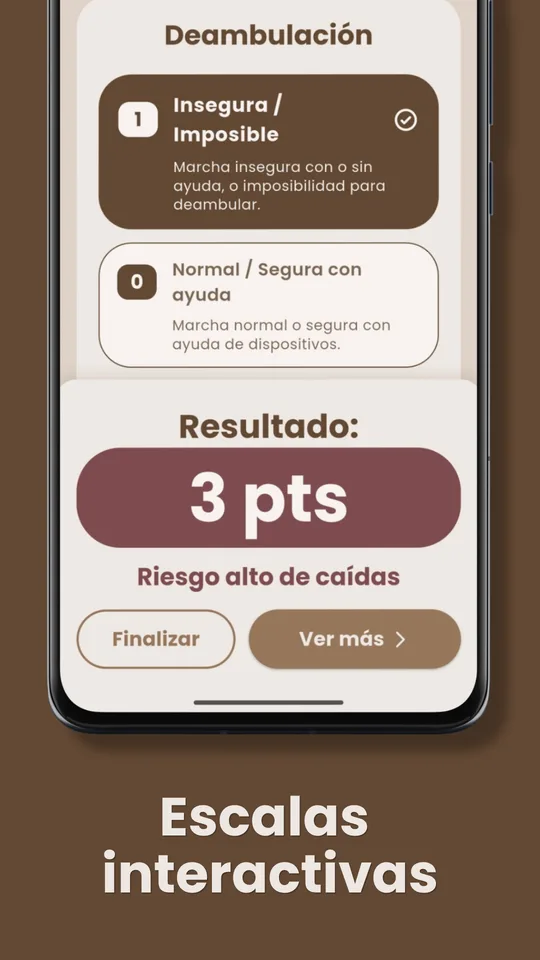
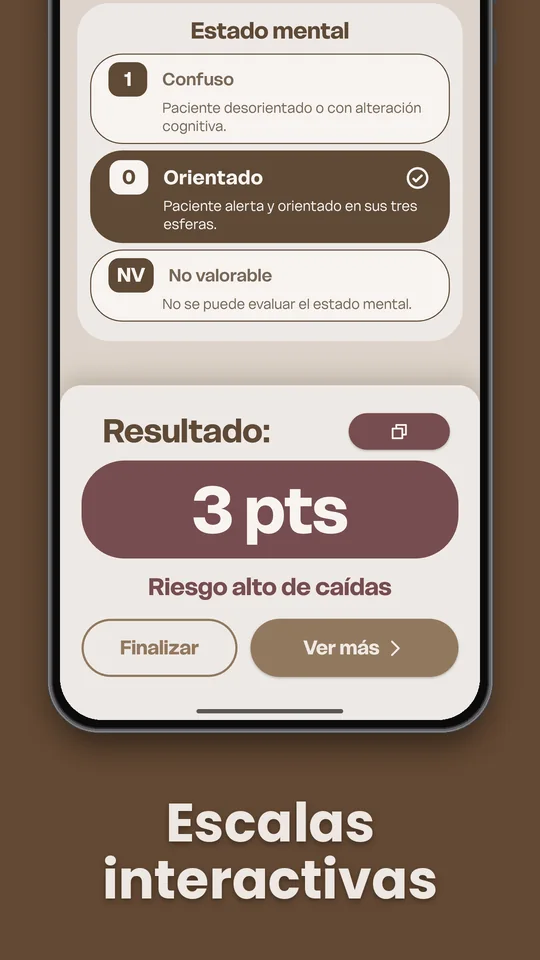
Landing: versión 2.0.0, Procedimientos, Dilución, conteos nuevos, ¿Es seguro? y capturas sin NursClips
Claude-Session: https://claude.ai/code/session_01FsfKZ1knpTXjysVmniKvEW

Changed region(s): [[0.0889, 0.0, 0.9185, 0.7812], [0.1778, 0.8125, 0.8296, 0.9375]]

diff --git a/index.html b/index.html
@@ -13,14 +13,14 @@
   <meta charset="UTF-8">
   <meta name="viewport" content="width=device-width, initial-scale=1">
   <title>Nurska | Referencia clínica de enfermería</title>
-  <meta name="description" content="Escalas, fármacos, calculadoras y fichas de consulta rápida para enfermería. Funciona sin señal, sin cuenta y sin anuncios. Gratis para Android.">
+  <meta name="description" content="Escalas, fármacos, dilución, calculadoras, procedimientos y fichas de consulta rápida para enfermería. Funciona sin señal, sin cuenta y sin anuncios. Gratis para Android.">
   <meta name="theme-color" content="#624933">
 
   <!-- Vista previa al compartir el enlace (WhatsApp, Facebook, etc.) -->
   <meta property="og:type" content="website">
   <meta property="og:locale" content="es_MX">
   <meta property="og:title" content="Nurska | Referencia clínica de enfermería">
-  <meta property="og:description" content="Escalas, fármacos y calculadoras para consultar en pleno turno. Funciona sin señal. Gratis para Android.">
+  <meta property="og:description" content="Escalas, fármacos, dilución, calculadoras y procedimientos para consultar en pleno turno. Funciona sin señal. Gratis para Android.">
   <meta property="og:url" content="https://farkasokovo.github.io/nurska-app/">
   <meta property="og:image" content="https://farkasokovo.github.io/nurska-app/assets/nurska_icon.png">
 
@@ -292,6 +292,24 @@
   }
   .nota i { font-size: 1.2rem; color: var(--tinta-2); flex: none; margin-top: 2px; }
 
+
+  /* ¿Es seguro? */
+  .preguntas { display: grid; gap: 12px; max-width: 46rem; }
+  .preguntas details {
+    background: var(--papel);
+    border-radius: var(--r-tarjeta);
+    box-shadow: var(--sombra);
+    padding: 16px 20px;
+  }
+  .preguntas summary { cursor: pointer; font-weight: 600; color: var(--tinta-2); list-style-position: outside; }
+  .preguntas p { margin-top: 8px; font-size: .92rem; color: var(--tinta-3); line-height: 1.55; }
+  .preguntas a { color: var(--tinta-2); font-weight: 600; }
+  .huellas { margin: 12px 0 0; font-size: .85rem; }
+  .huellas div { padding-block: 8px; border-top: 1px solid var(--linea); }
+  .huellas dt { font-weight: 600; color: var(--tinta-2); }
+  .huellas dd { margin: 2px 0 0; color: var(--tinta-3); overflow-wrap: anywhere; }
+  .huellas dd.hash { font-family: ui-monospace, monospace; }
+
   /* Instalación: sí es una secuencia, por eso va numerada */
   .pasos { list-style: none; padding: 0; margin: 0; display: grid; grid-template-columns: repeat(auto-fit, minmax(15rem, 1fr)); gap: 18px; counter-reset: paso; }
   .pasos li {
@@ -376,7 +394,7 @@
       </div>
 
       <h1>Consulta rápida para tu turno.</h1>
-      <p class="lede">Nurska es una app gratuita de referencia clínica para enfermería: fármacos, escalas, calculadoras, normas oficiales y fichas esenciales, con fuente en cada dato y sin necesidad de internet. Es el proyecto de un estudiante de enfermería.</p>
+      <p class="lede">Nurska es una app gratuita de referencia clínica para enfermería: fármacos y su dilución, escalas, calculadoras, procedimientos, normas oficiales y fichas esenciales, con fuente en cada dato y sin necesidad de internet. Es el proyecto de un estudiante de enfermería.</p>
 
       <ul class="promesas">
         <li><i class="ph ph-wifi-slash" aria-hidden="true"></i>Funciona sin señal</li>
@@ -392,7 +410,7 @@
       <a class="btn btn-borde" href="#instalar"><i class="ph ph-question" aria-hidden="true"></i>¿Cómo instalar?</a>
       </div>
       <!-- Valor de respaldo: el script del final lo actualiza con el último Release -->
-      <p class="descarga-nota" id="nota-version">Versión 1.5.0 para Android</p>
+      <p class="descarga-nota" id="nota-version">Versión 2.0.0 para Android</p>
     </div>
 
     <div class="telefono">
@@ -419,7 +437,7 @@
             <span class="cuenta">17</span>
           </div>
           <dl>
-            <div><dt>Signos vitales</dt><dd>Adulto, con presión arterial según la NOM-030 y valores de laboratorio; pediátricos, interpretados por edad</dd></div>
+            <div><dt>Signos vitales</dt><dd>Del adulto, con tabla de presión arterial según la NOM-030; pediátricos, interpretados por edad</dd></div>
             <div><dt>Consciencia y sedación</dt><dd>Glasgow, Ramsay, RASS</dd></div>
             <div><dt>Valoración de riesgos</dt><dd>Braden, Downton, Maddox</dd></div>
             <div><dt>Emergencias y triaje</dt><dd>MEWS, qSOFA, índice de shock</dd></div>
@@ -432,13 +450,13 @@
           <div class="modulo-barra">
             <i class="ph-fill ph-syringe" aria-hidden="true"></i>
             <h3>Farmacología</h3>
-            <span class="cuenta">52 fármacos</span>
+            <span class="cuenta">55 fármacos</span>
           </div>
           <dl>
-            <div><dt>Grupos</dt><dd>Analgésicos, anestésicos, antiarrítmicos, antibióticos, anticoagulantes, antidepresivos, antieméticos, antihipertensivos, antiinflamatorios, broncodilatadores, diuréticos, electrolitos, hemostáticos, insulinas, opioides, protectores gástricos, vasodilatadores y vasopresores</dd></div>
-            <div><dt>Cada ficha</dt><dd>Indicaciones, contraindicaciones, vía de administración, farmacocinética, farmacodinamia, efectos adversos, interacciones, administración y precauciones</dd></div>
+            <div><dt>Grupos</dt><dd>Analgésicos, anestésicos, antiarrítmicos, antibióticos, anticoagulantes, antidepresivos, antidiabéticos orales, antieméticos, antihipertensivos, antiinflamatorios, broncodilatadores, diuréticos, electrolitos, hemostáticos, insulinas, opioides, protectores gástricos, vasodilatadores y vasopresores</dd></div>
+            <div><dt>Cada ficha</dt><dd>Indicaciones, contraindicaciones, vía de administración, farmacocinética, farmacodinamia, efectos adversos, interacciones, observaciones de administración, embarazo y lactancia</dd></div>
             <div><dt>Alto riesgo</dt><dd>Marca visible en los fármacos que la requieren</dd></div>
-            <div><dt>NursClips</dt><dd>Pestaña con lo esencial del video en los fármacos que tienen uno</dd></div>
+            <div><dt>Dilución</dt><dd>Diluyente, volumen y tiempo de administración de 39 fármacos</dd></div>
           </dl>
         </article>
 
@@ -446,14 +464,30 @@
           <div class="modulo-barra">
             <i class="ph-fill ph-calculator" aria-hidden="true"></i>
             <h3>Calculadoras</h3>
-            <span class="cuenta">5</span>
+            <span class="cuenta">9</span>
           </div>
           <dl>
             <div><dt>Dosis</dt><dd>Regla de tres, con conversor entre mcg, mg y g</dd></div>
-            <div><dt>Goteo intravenoso</dt><dd>En horas o minutos</dd></div>
+            <div><dt>Goteo e infusión</dt><dd>Gotas por minuto, en horas o minutos, e infusión continua en mL/h</dd></div>
             <div><dt>Presión arterial media</dt><dd>PAM a partir de sistólica y diastólica</dd></div>
             <div><dt>Soluciones glucosadas</dt><dd>Por dilución o mezcla de dos soluciones</dd></div>
-            <div><dt>Pérdidas insensibles</dt><dd>Para el balance de líquidos</dd></div>
+            <div><dt>Líquidos</dt><dd>Pérdidas insensibles, balance de líquidos y diuresis horaria</dd></div>
+            <div><dt>Cálculo de horario</dt><dd>Hora de la próxima dosis en formato de 24 horas</dd></div>
+          </dl>
+        </article>
+
+        <article class="modulo">
+          <div class="modulo-barra">
+            <i class="ph-fill ph-list-checks" aria-hidden="true"></i>
+            <h3>Procedimientos</h3>
+            <span class="cuenta">Nuevo</span>
+          </div>
+          <dl>
+            <div><dt>Antes de cada procedimiento</dt><dd>Lo que se repite siempre, reunido en una sola guía</dd></div>
+            <div><dt>Accesos vasculares</dt><dd>Canalización venosa periférica</dd></div>
+            <div><dt>Vía aérea</dt><dd>Aspiración de secreciones con sistema abierto y con sistema cerrado</dd></div>
+            <div><dt>Sondas</dt><dd>Instalación de sonda vesical (Foley)</dd></div>
+            <div><dt>Cada ficha</dt><dd>Material para marcar, pasos en tarjetas o en lista y avance guardado</dd></div>
           </dl>
         </article>
 
@@ -461,13 +495,13 @@
           <div class="modulo-barra">
             <i class="ph-fill ph-chalkboard-teacher" aria-hidden="true"></i>
             <h3>Esenciales</h3>
-            <span class="cuenta">16 fichas</span>
+            <span class="cuenta">24 fichas</span>
           </div>
           <dl>
-            <div><dt>Insumos</dt><dd>Orden de llenado de tubos, calibres de catéter periférico, soluciones intravenosas, catéter venoso central, catéter PICC</dd></div>
-            <div><dt>Paciente</dt><dd>Regiones abdominales, toma de presión arterial, fístula arteriovenosa</dd></div>
+            <div><dt>Insumos</dt><dd>Orden de llenado de tubos, calibres de catéter periférico, soluciones intravenosas, catéter venoso central, catéter PICC, hemocomponentes y transfusión segura</dd></div>
+            <div><dt>Paciente</dt><dd>Regiones abdominales, toma de presión arterial, fístula arteriovenosa, gasometría arterial, valores de laboratorio del adulto, reacciones extrapiramidales</dd></div>
             <div><dt>Equipo</dt><dd>Dispositivos de oxígeno de bajo y alto flujo, drenajes, modos ventilatorios básicos, ventiladores mecánicos</dd></div>
-            <div><dt>Códigos</dt><dd>Código azul, Acciones Esenciales para la Seguridad del Paciente, precauciones de aislamiento, hora dorada en neutropenia febril</dd></div>
+            <div><dt>Códigos</dt><dd>Código azul, ritmos de paro cardiaco, interpretación básica del electrocardiograma, Acciones Esenciales para la Seguridad del Paciente, correctos de la medicación, precauciones de aislamiento del IMSS, abreviaturas clínicas, hora dorada en neutropenia febril</dd></div>
           </dl>
         </article>
 
@@ -496,11 +530,10 @@
         <p>Colores cálidos, letra grande y botones pensados para usarse con una mano.</p>
       </div>
       <div class="capturas">
-        <img src="assets/img/escalas.webp" alt="Escala de riesgo de caídas con el resultado de 3 puntos, riesgo alto" width="540" height="960" loading="lazy">
-        <img src="assets/img/farmaco.webp" alt="Ficha de un fármaco con indicaciones, vía de administración y contraindicaciones" width="540" height="960" loading="lazy">
-        <img src="assets/img/nursclips.webp" alt="Pestaña de NursClips dentro de la ficha de un fármaco" width="540" height="960" loading="lazy">
-        <img src="assets/img/calculadora.webp" alt="Calculadora de dosis con el resultado en mililitros a administrar" width="540" height="960" loading="lazy">
-        <img src="assets/img/esenciales.webp" alt="Ficha esencial de cuidados de la fístula arteriovenosa" width="540" height="960" loading="lazy">
+        <img src="assets/img/escalas.webp" alt="Escala de Downton con el resultado de 3 puntos, riesgo alto de caídas" width="540" height="960" loading="lazy">
+        <img src="assets/img/farmaco.webp" alt="Ficha de tramadol con las pastillas de vía, embarazo y lactancia, y su farmacodinamia" width="540" height="960" loading="lazy">
+        <img src="assets/img/calculadora.webp" alt="Calculadora de regla de tres con dosis indicada, diluyente y presentación del fármaco" width="540" height="960" loading="lazy">
+        <img src="assets/img/esenciales.webp" alt="Ficha esencial de ritmos de paro cardiaco con su tabla y un trazo de fibrilación ventricular" width="540" height="960" loading="lazy">
       </div>
     </div>
   </section>
@@ -556,6 +589,37 @@
     </div>
   </section>
 
+  <section id="seguridad">
+    <div class="wrap">
+      <div class="encabezado">
+        <h2>¿Es seguro instalar Nurska?</h2>
+        <p>Es normal dudar de una app que no viene de una tienda. Estas son las respuestas, y la forma de comprobarlas por tu cuenta.</p>
+      </div>
+      <div class="preguntas">
+        <details>
+          <summary>¿Por qué Android me advierte al instalarla?</summary>
+          <p>Porque Nurska se descarga desde esta página y no desde Play Store. Android muestra el mismo aviso con cualquier app que no sale de la tienda, sea cual sea; no significa que el archivo tenga algo malo.</p>
+        </details>
+        <details>
+          <summary>¿Qué permisos pide?</summary>
+          <p>Ninguno que tengas que aceptar: no usa cámara, micrófono, contactos, ubicación ni tus archivos, y no pide correo ni contraseña. Solo se conecta a internet para avisarte cuando hay versión nueva; todo el contenido funciona sin señal y no guarda ni envía datos de tus pacientes.</p>
+        </details>
+        <details>
+          <summary>¿De dónde sale el archivo?</summary>
+          <p>De la página oficial de Nurska en GitHub, donde se publica cada versión. Todas van firmadas con la misma llave del desarrollador: si alguien modificara el archivo, Android no dejaría instalarlo encima de tu Nurska.</p>
+        </details>
+        <details>
+          <summary>¿Cómo lo compruebo yo?</summary>
+          <p>Puedes revisar el archivo de la versión actual en <a id="enlace-virustotal" href="https://www.virustotal.com/" target="_blank" rel="noopener">VirusTotal</a>, un servicio que lo analiza con decenas de antivirus a la vez. Play Protect también lo escanea al instalarlo.</p>
+          <dl class="huellas">
+            <div><dt>Huella del archivo (SHA-256)</dt><dd id="huella-apk">Aparece junto al archivo en <a href="https://github.com/farkasokovo/nurska-app/releases/latest" target="_blank" rel="noopener">la página de la versión en GitHub</a></dd></div>
+            <div><dt>Huella del certificado de firma (SHA-256)</dt><dd class="hash">73:38:F7:73:C2:48:19:3E:B5:11:69:1E:41:00:6A:2C:47:2D:ED:04:C3:76:9F:F8:3D:B7:5C:D5:73:CE:54:21</dd></div>
+          </dl>
+        </details>
+      </div>
+    </div>
+  </section>
+
   <section id="novedades">
     <div class="wrap">
       <div class="encabezado">
@@ -564,20 +628,41 @@
       </div>
 
       <div class="version">
-        <div class="version-cabeza"><b>Versión 1.5.0</b><span>31 de octubre de 2026</span></div>
+        <div class="version-cabeza"><b>Versión 2.0.0</b><span>15 de noviembre de 2026</span></div>
         <ul>
-          <li>Bienvenida para quien instala Nurska por primera vez: qué trae, cómo se usa, contacto y apoyo voluntario.</li>
-          <li>La app inicia en tema claro y recuerda el tema que se elija en el menú.</li>
-          <li>Farmacología pasa de 42 a 52 fármacos, con tres categorías nuevas (antiarrítmicos, opioides y vasopresores) y rifampicina en antibióticos.</li>
-          <li>Las fichas de los fármacos que aparecen en NursClips suman una pestaña con lo esencial del video.</li>
-          <li>Normativas pasa de 3 a 9 normas oficiales, con cuatro categorías nuevas: expediente clínico, infecciones, urgencias y cuidados intensivos, y obstetricia y neonatología.</li>
-          <li>Acerca de suma los enlaces de NursClips y un botón de donación voluntaria.</li>
+          <li>Nuevo módulo Procedimientos: antes de cada procedimiento, canalización venosa periférica, aspiración de secreciones con sistema abierto y cerrado, e instalación de sonda vesical (Foley). Pasos en tarjetas o en lista, material para marcar, avance guardado y opción de reportar.</li>
+          <li>Nueva sección Dilución en Farmacología con 39 fármacos: diluyente, volumen y tiempo de administración, con favoritos propios y un aviso de uso la primera vez.</li>
+          <li>Farmacología pasa de 52 a 55 fármacos con la nueva categoría Antidiabéticos orales: metformina, dapagliflozina y sitagliptina.</li>
+          <li>Fichas de fármacos renovadas: observaciones en tarjetas, pastillas de embarazo y lactancia, laboratorio de referencia y contenido revisado por laboratorio.</li>
+          <li>Se eliminó la pestaña NursClips de las fichas de medicamentos; los enlaces al canal se conservan.</li>
+          <li>Esenciales pasa de 21 a 24 fichas: interpretación básica del ECG con trazos, valores de laboratorio del adulto y reacciones extrapiramidales. Aislamiento se rehízo con las precauciones del IMSS, se suma la tabla de lúmenes del CVC y las imágenes se amplían con zoom.</li>
+          <li>Nueva calculadora: Cálculo de horario.</li>
+          <li>Signos vitales: tabla de presión arterial deslizable en el adulto (el laboratorio pasa a su propia ficha) y tablas pediátricas deslizables con la edad fija.</li>
+          <li>Escalas con nuevo indicador de avance; Pérdidas insensibles pregunta un parámetro a la vez.</li>
+          <li>En calculadoras, Índice de shock y Signos vitales, Enter pasa al siguiente campo.</li>
+          <li>Vibración ligera al elegir opciones, copiar, marcar favoritos, calcular y regresar.</li>
+          <li>"Material de apoyo" ahora se llama "Referencias" en toda la app.</li>
+          <li>Las pantallas ya no quedan detrás de la barra de 3 botones.</li>
+          <li>Optimización: el APK es más ligero.</li>
           <li>Corrección de errores.</li>
         </ul>
       </div>
 
       <details class="anteriores">
         <summary>Versiones anteriores</summary>
+        <div class="version">
+          <div class="version-cabeza"><b>Versión 1.5.0</b><span>31 de octubre de 2026</span></div>
+          <ul>
+            <li>Bienvenida para quien instala Nurska por primera vez: qué trae, cómo se usa, contacto y apoyo voluntario.</li>
+            <li>La app inicia en tema claro y recuerda el tema que se elija en el menú.</li>
+            <li>Farmacología pasa de 42 a 52 fármacos, con tres categorías nuevas (antiarrítmicos, opioides y vasopresores) y rifampicina en antibióticos.</li>
+            <li>Las fichas de los fármacos que aparecen en NursClips suman una pestaña con lo esencial del video.</li>
+            <li>Normativas pasa de 3 a 9 normas oficiales, con cuatro categorías nuevas: expediente clínico, infecciones, urgencias y cuidados intensivos, y obstetricia y neonatología.</li>
+            <li>Acerca de suma los enlaces de NursClips y un botón de donación voluntaria.</li>
+            <li>Corrección de errores.</li>
+          </ul>
+        </div>
+
         <div class="version">
           <div class="version-cabeza"><b>Versión 1.4.0</b><span>Octubre de 2026</span></div>
           <ul>
@@ -691,6 +776,12 @@ document.querySelectorAll(".js-descarga").forEach(function (a) {
       var apk = (data.assets || []).filter(function (a) { return /\.apk$/i.test(a.name || ""); })[0];
       var peso = apk && apk.size ? ", " + Math.round(apk.size / 1048576) + " MB" : "";
       document.getElementById("nota-version").textContent = "Versión " + tag + " para Android" + peso;
+      var huella = apk && /^sha256:/.test(apk.digest || "") ? apk.digest.slice(7) : "";
+      if (huella) {
+        document.getElementById("huella-apk").textContent = huella + " (versión " + tag + ")";
+        document.getElementById("huella-apk").className = "hash";
+        document.getElementById("enlace-virustotal").href = "https://www.virustotal.com/gui/file/" + huella;
+      }
     })
     .catch(function () {});
 })();
